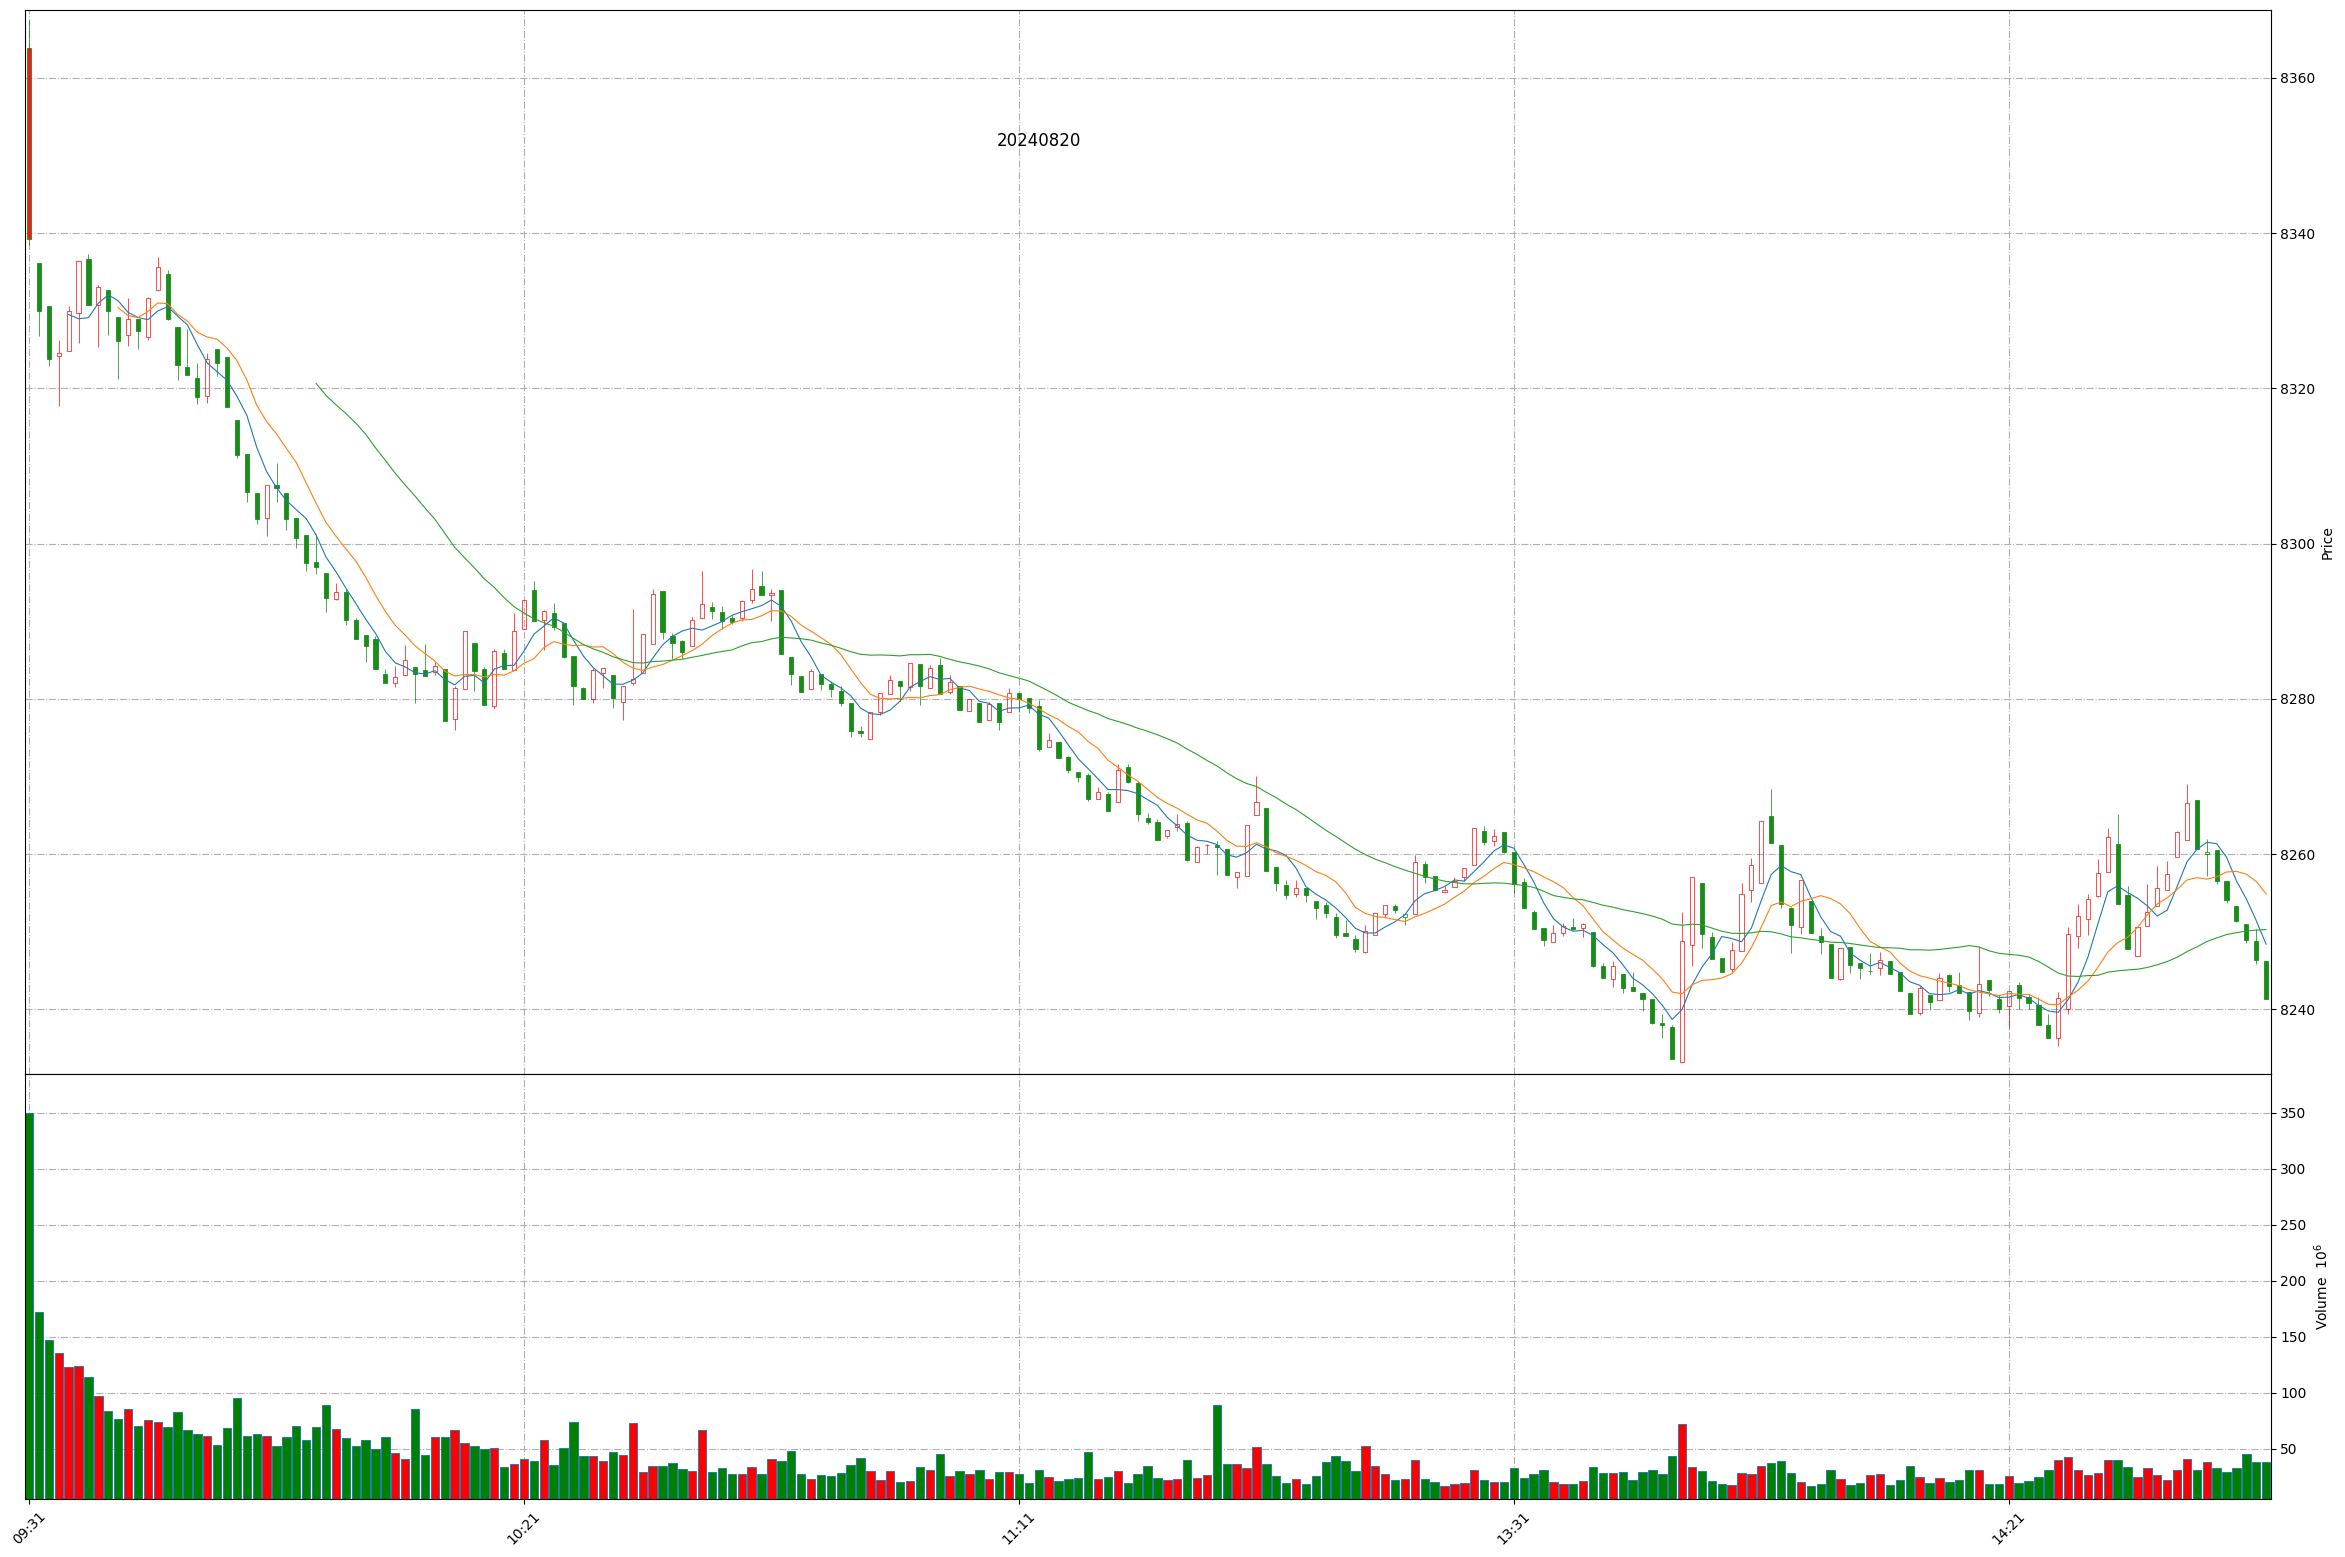
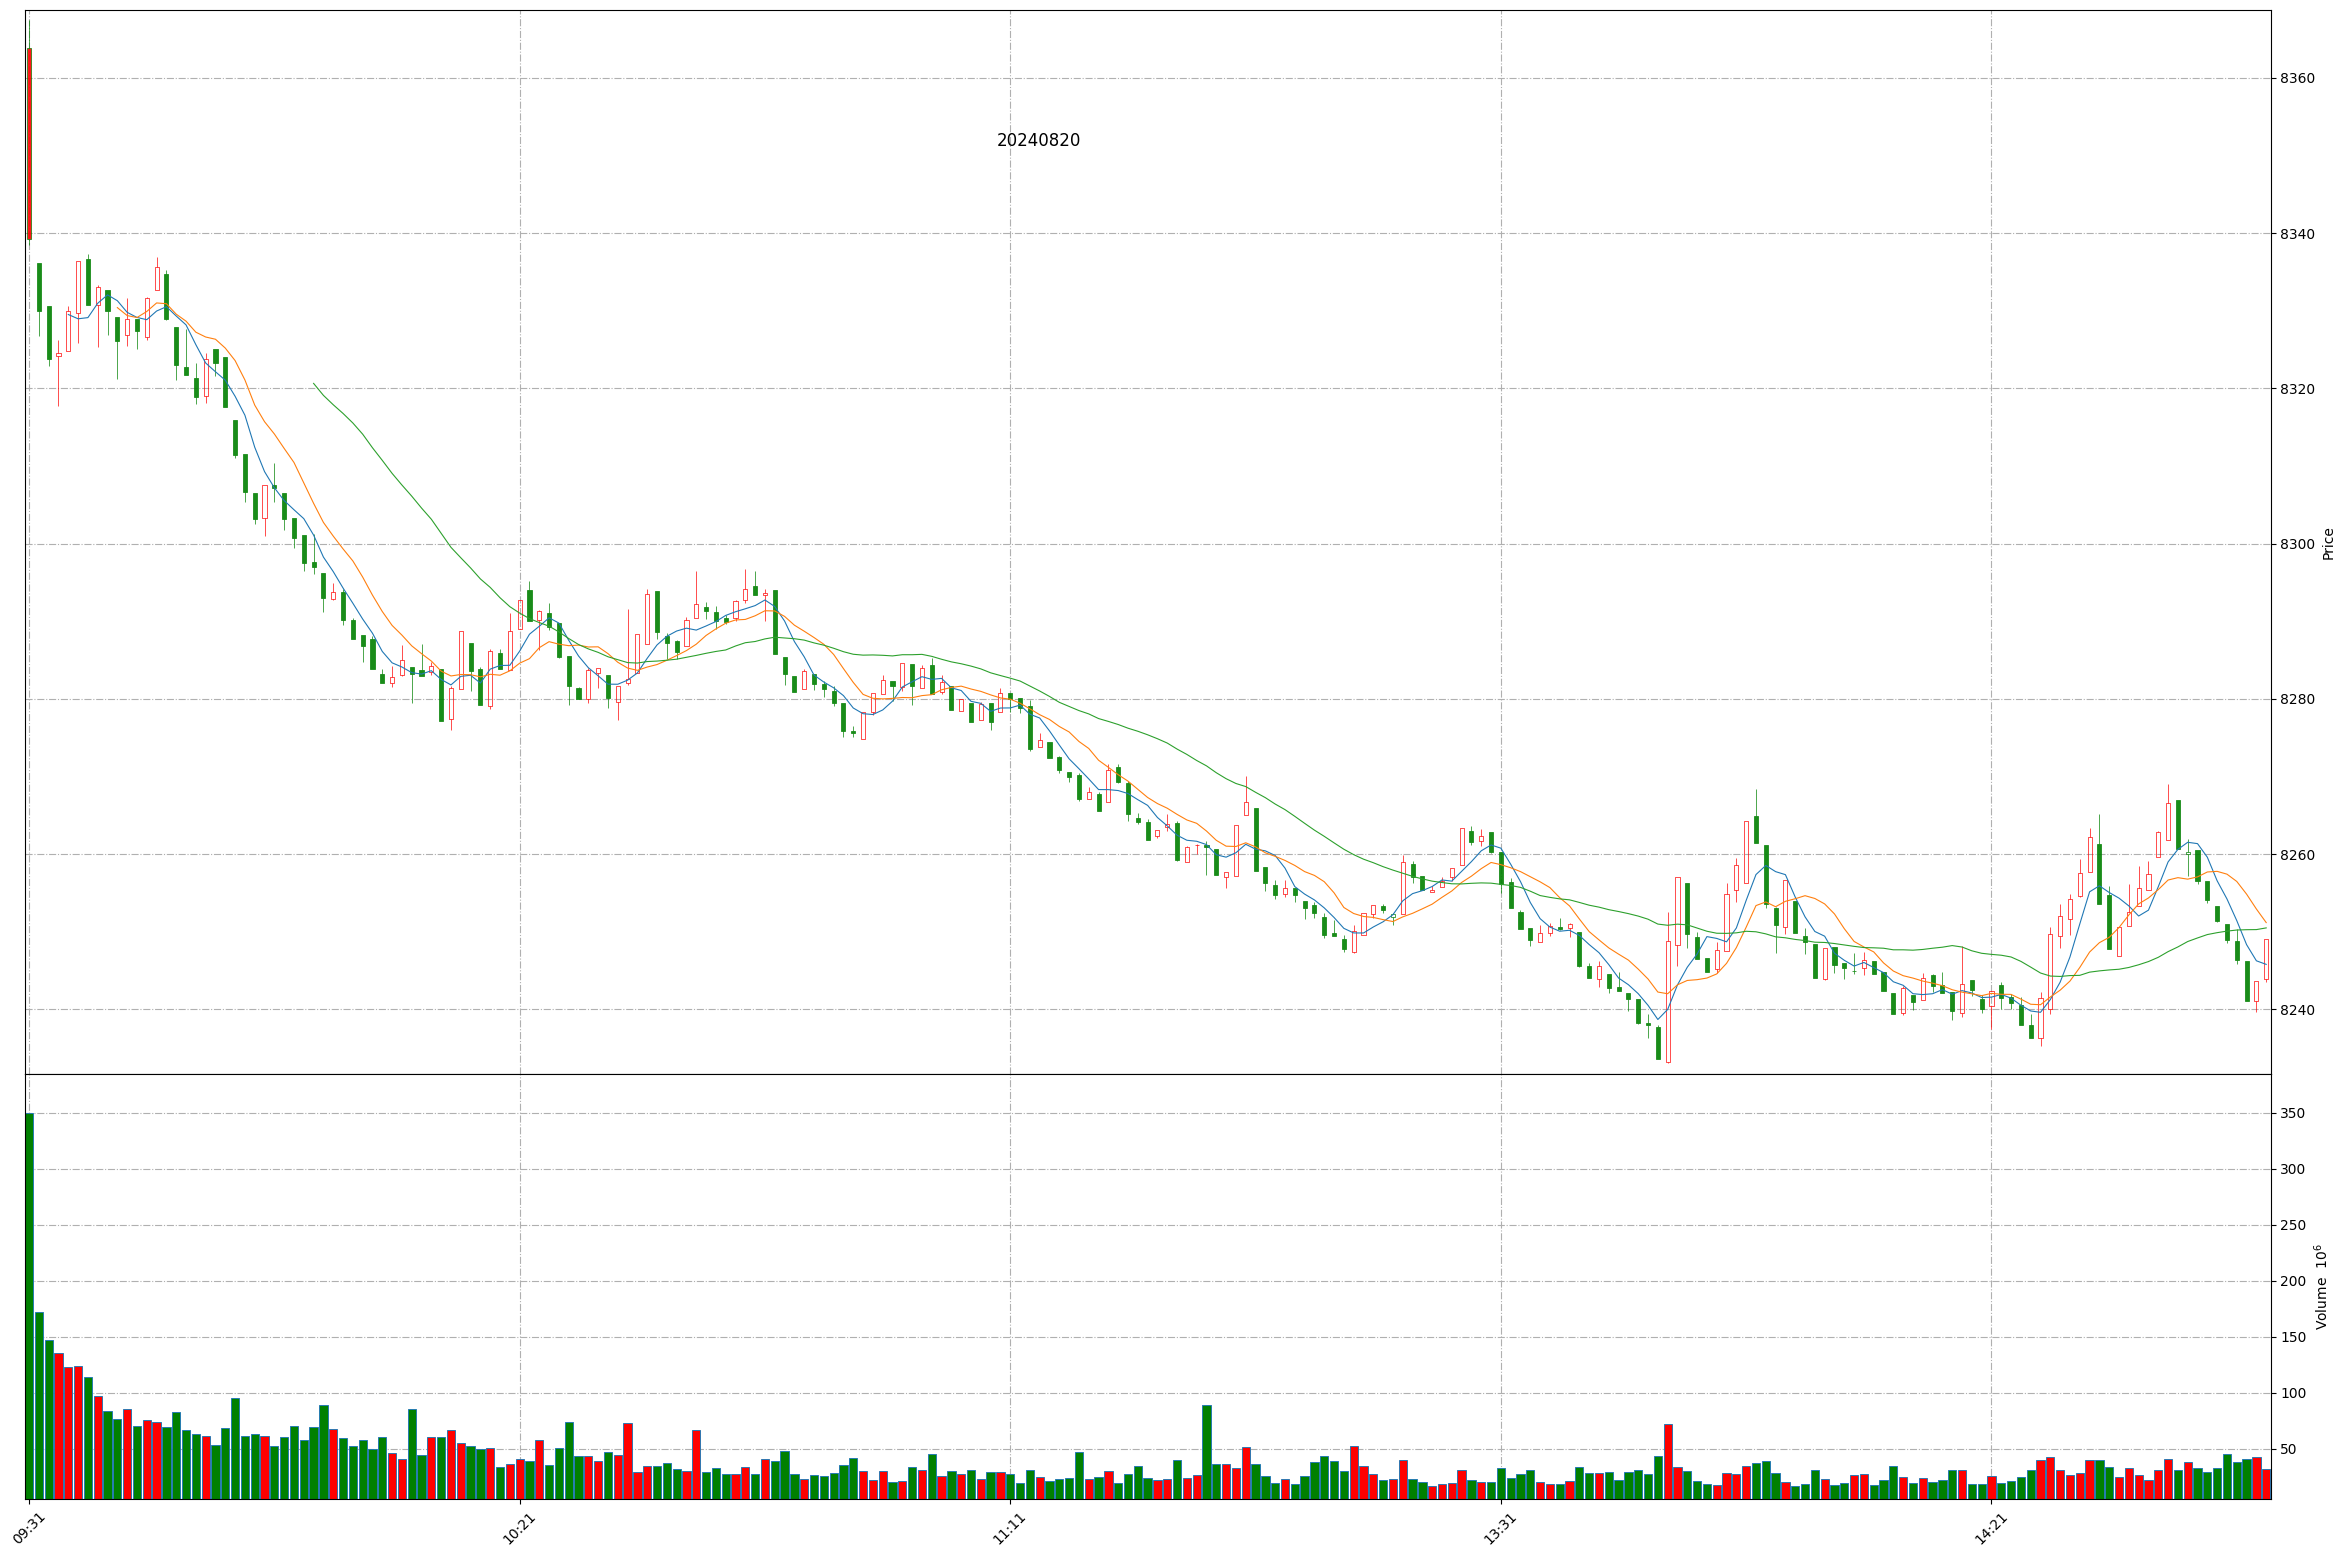
Github action update at 2024-08-20 14:48:59.

diff --git a/README.md b/README.md
@@ -1,11 +1,11 @@
 
 # Daily-A-share-market-quotes 每日 A 股指数（5min 更新）- 20240820
 
-### 上证指数 20240820 14:47
+### 上证指数 20240820 14:48
 ![](./fig/2024/8/20240820-sh000001.png)
 
-### 深证成指 20240820 14:47
+### 深证成指 20240820 14:48
 ![](./fig/2024/8/20240820-sz399001.png)
 
-### 北证50 20240820 14:47
+### 北证50 20240820 14:48
 ![](./fig/2024/8/20240820-bj899050.png)
